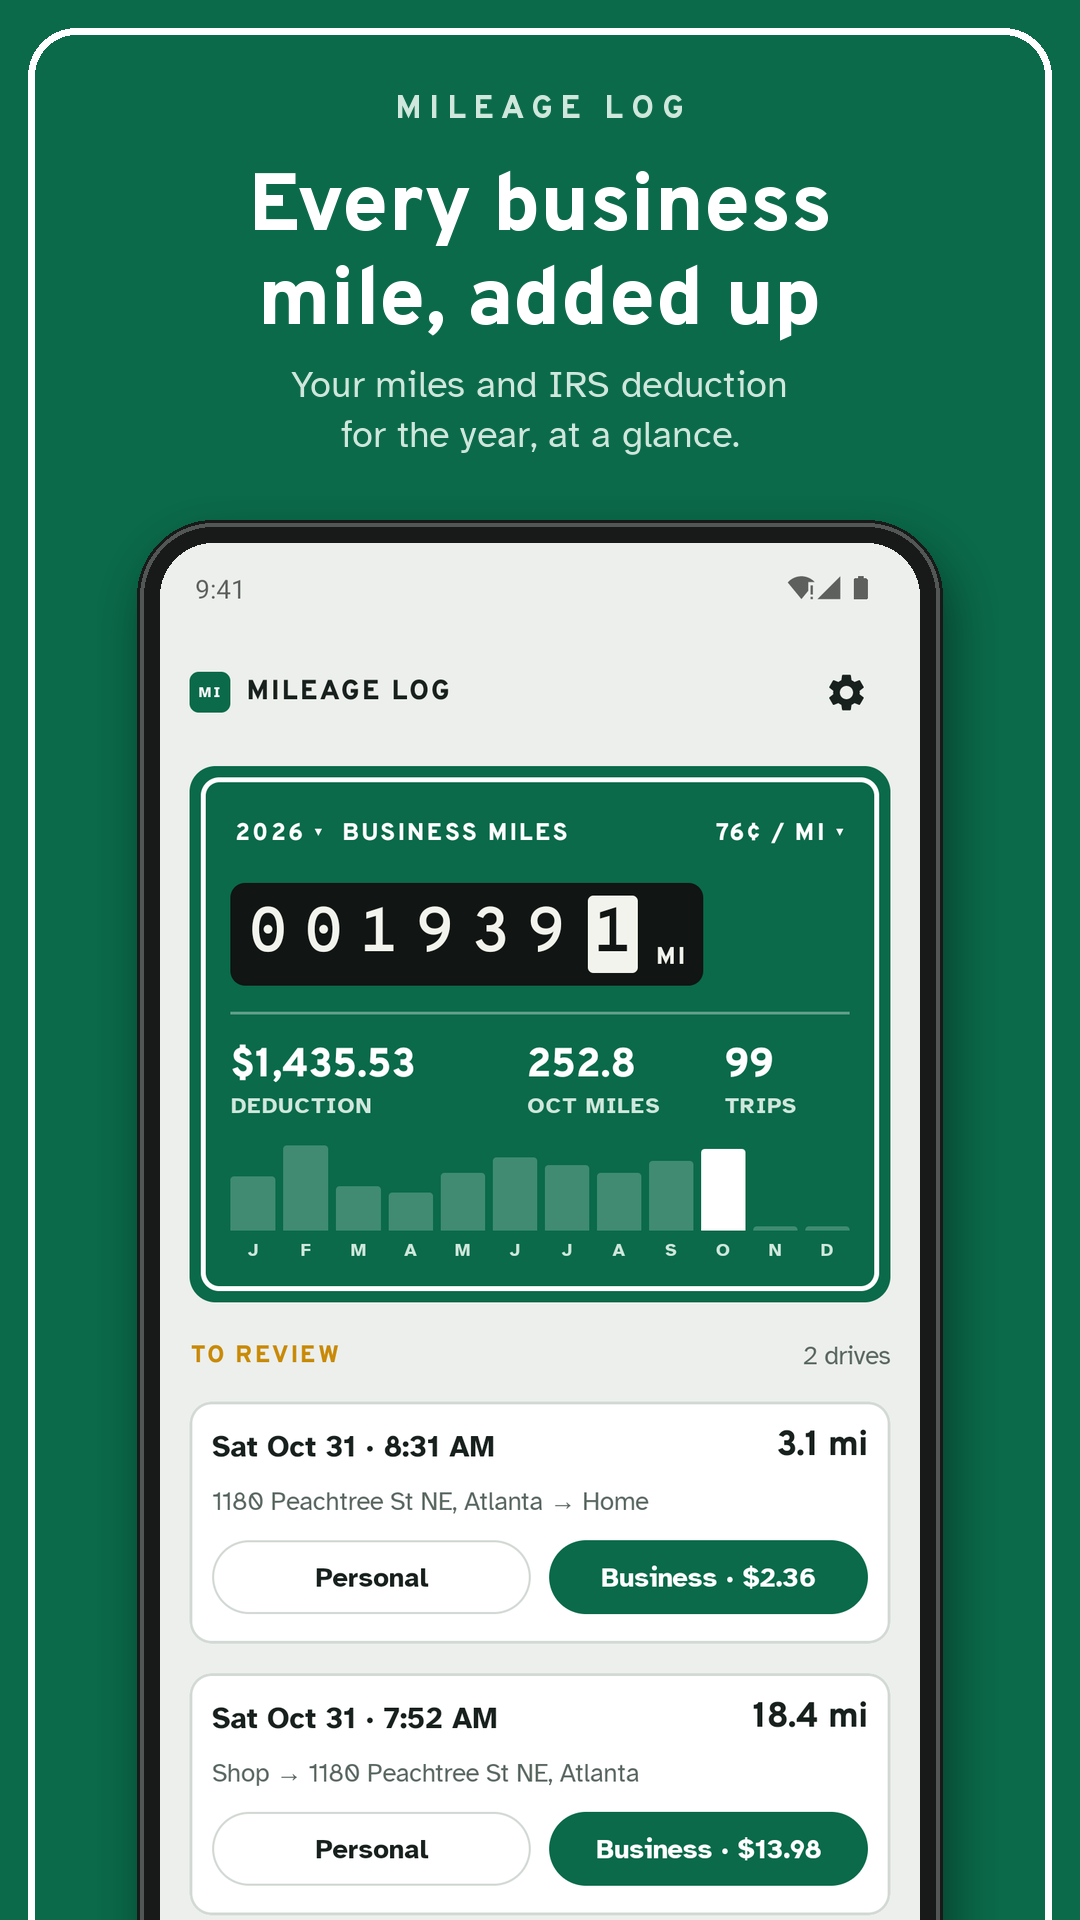
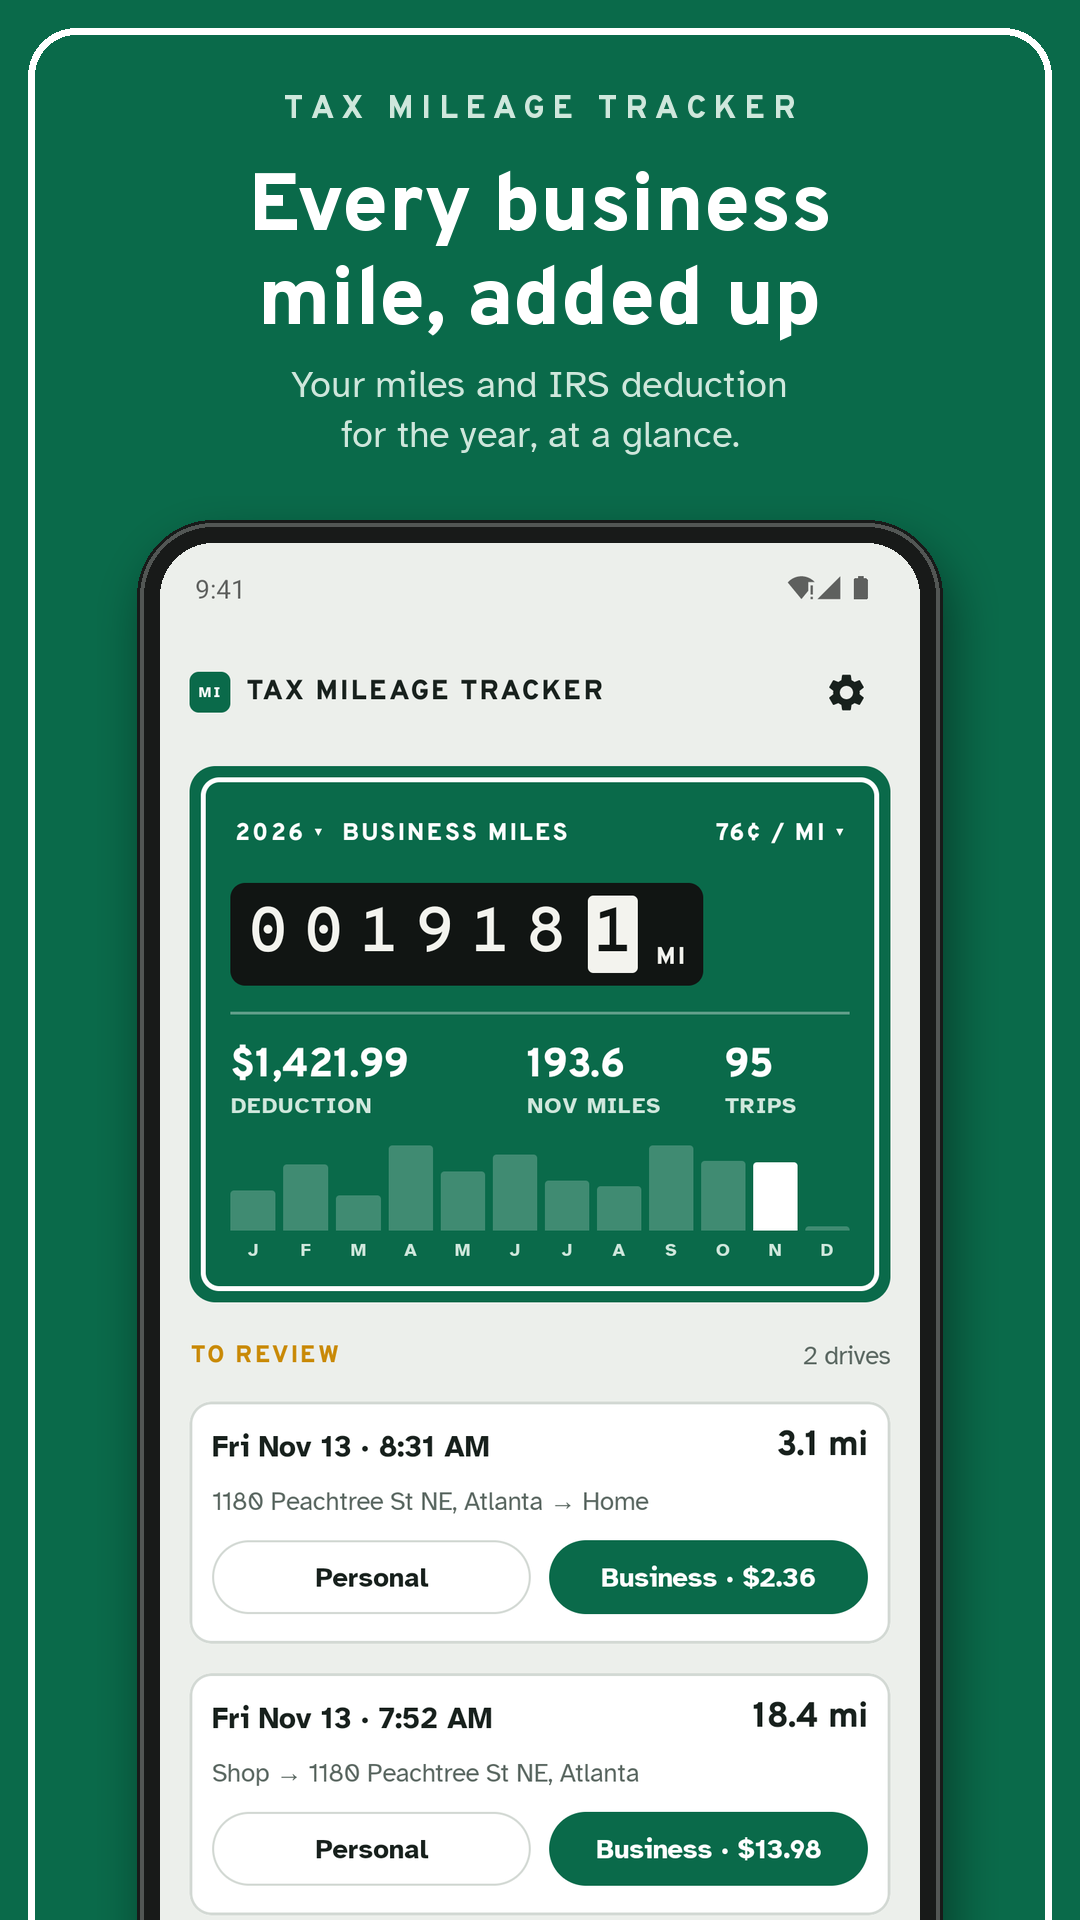
Store screenshots and header art: Tax Mileage Tracker name, tax report slide; 1.1 What's New
Claude-Session: https://claude.ai/code/session_01NV7369TV3DByZaPkANa13k

diff --git a/android/store-listing/compose_play.py b/android/store-listing/compose_play.py
@@ -17,6 +17,7 @@ SLIDES = [   # upload order: the first three tell the core story
     ("1-drive-detected", "Logs drives on its own", "Automatic detection measures each trip with your phone in your pocket.", GREEN),
     ("2-review", "Business or personal? One tap.", "GPS miles and addresses fill in. Pick a purpose and save.", GREEN),
     ("3-home", "Every business mile, added up", "Your miles and IRS deduction for the year, at a glance.", GREEN),
+    ("6-report", "A tax report, ready to hand over", "Totals, Schedule C vehicle miles, parking and tolls, and every trip, as a PDF.", GREEN),
     ("4-settings", "Set it up once", "Turn on detection, save home and work, and you're ready to drive.", GREEN),
     ("5-dark", "Private, and easy on the eyes", "Dark mode, no account, and your trips never leave your phone.", DARK),
 ]
@@ -60,12 +61,12 @@ def drop(img, p, x, y, blur=24, alpha=110):
 def screenshots():
     os.makedirs(os.path.join(OUT, "screenshots"), exist_ok=True)
     W, H = 1080, 1920
-    for name, head, sub, bg in SLIDES:
+    for order, (name, head, sub, bg) in enumerate(SLIDES, 1):
         src = os.path.join(RAW, name + ".png")
         if not os.path.exists(src): print("missing", src); continue
         img = Image.new("RGB", (W, H), bg); d = ImageDraw.Draw(img)
         d.rounded_rectangle([28, 28, W - 29, H + 200], radius=48, outline=WHITE, width=7)
-        d.text((W / 2, 110), "M I L E A G E   L O G", font=sign_font(32), fill=SOFT, anchor="mm")
+        d.text((W / 2, 110), "T A X   M I L E A G E   T R A C K E R", font=sign_font(32), fill=SOFT, anchor="mm")
         hf = sign_font(82); y = 170
         for line in wrap(d, head, hf, W - 170):
             d.text((W / 2, y), line, font=hf, fill=WHITE, anchor="mt"); y += 94
@@ -74,7 +75,7 @@ def screenshots():
             d.text((W / 2, y), line, font=sf, fill=SOFT, anchor="mt"); y += 50
         p = phone(Image.open(src), 760)
         drop(img, p, (W - p.width) // 2, max(y + 50, 520))
-        img.save(os.path.join(OUT, "screenshots", name + ".png"), optimize=True)
+        img.save(os.path.join(OUT, "screenshots", f"{order}-{name.split('-', 1)[1]}.png"), optimize=True)
         print("wrote", name, img.size)
 
 def feature_graphic():
@@ -83,7 +84,7 @@ def feature_graphic():
     img = Image.new("RGB", (W, H), GREEN); d = ImageDraw.Draw(img)
     d.rounded_rectangle([14, 14, W - 15, H - 15], radius=26, outline=WHITE, width=4)
     x = 64
-    d.text((x, 120), "M I L E A G E   L O G", font=sign_font(20), fill=SOFT)
+    d.text((x, 120), "T A X   M I L E A G E   T R A C K E R", font=sign_font(20), fill=SOFT)
     hf = sign_font(52); y = 160
     for line in ["Every business mile,", "logged for you"]:
         d.text((x, y), line, font=hf, fill=WHITE); y += 60

diff --git a/ios/store-listing/compose_store.py b/ios/store-listing/compose_store.py
@@ -24,6 +24,7 @@ SLIDES = [
     ("2-drive-detected", "Logs drives on its own", "Automatic detection measures each trip with your phone in your pocket.", GREEN),
     ("3-review", "Business or personal? One tap.", "GPS miles and addresses fill in. Add the purpose and save.", GREEN),
     ("1-home", "Every business mile, added up", "Your miles and IRS deduction for the year, at a glance.", GREEN),
+    ("6-report", "A tax report, ready to hand over", "Totals, Schedule C vehicle miles, parking and tolls, and every trip, as a PDF.", GREEN),
     ("4-settings", "Midyear rate changes, handled", "Each trip uses the IRS rate for the day you drove: 72.5¢, then 76¢.", GREEN),
     ("5-dark", "Private, and easy on the eyes", "Dark mode, no account, and your trips never leave your phone.", INK_DARK),
 ]
@@ -66,7 +67,7 @@ for order, (name, head, sub, bg) in enumerate(SLIDES, start=1):
     # Highway-sign inset border along the top and sides.
     d.rounded_rectangle([34, 34, W - 35, H + 200], radius=58, outline=(255, 255, 255), width=8)
     eyebrow = ImageFont.truetype(SIGN, 40)
-    d.text((W / 2, 150), "M I L E A G E   L O G", font=eyebrow, fill=SOFT, anchor="mm")
+    d.text((W / 2, 150), "T A X   M I L E A G E   T R A C K E R", font=eyebrow, fill=SOFT, anchor="mm")
     hf = ImageFont.truetype(SIGN, 104); y = 230
     for line in wrap(d, head, hf, W - 200):
         d.text((W / 2, y), line, font=hf, fill=(255, 255, 255), anchor="mt"); y += 118
@@ -84,6 +85,6 @@ for order, (name, head, sub, bg) in enumerate(SLIDES, start=1):
     # The two sizes have the same shape, so the 6.3-inch image is a straight downscale.
     os.makedirs(os.path.join(OUT, "6.9-inch"), exist_ok=True)
     os.makedirs(os.path.join(OUT, "6.3-inch"), exist_ok=True)
-    img.save(os.path.join(OUT, "6.9-inch", f"{order}-mileage-log-{label}.png"), optimize=True)
-    img.resize((1206, 2622), Image.LANCZOS).save(os.path.join(OUT, "6.3-inch", f"{order}-mileage-log-{label}.png"), optimize=True)
+    img.save(os.path.join(OUT, "6.9-inch", f"{order}-tax-mileage-tracker-{label}.png"), optimize=True)
+    img.resize((1206, 2622), Image.LANCZOS).save(os.path.join(OUT, "6.3-inch", f"{order}-tax-mileage-tracker-{label}.png"), optimize=True)
     print("wrote", name)

diff --git a/ios/store-listing/compose_header.py b/ios/store-listing/compose_header.py
@@ -83,13 +83,13 @@ def make(W, H, name):
             f = ImageFont.truetype(path, round(size))
             if max(d.textlength(l, font=f) for l in lines) <= col_w: return f
             size *= 0.96
-    eb = fit(["M I L E A G E   L O G"], SIGN, 30 * u)
+    eb = fit(["T A X   M I L E A G E   T R A C K E R"], SIGN, 30 * u)
     hf = fit(HEAD, SIGN, 104 * u)
     sf = fit(SUB, BODY, 40 * u)
     hs, ss = hf.size, sf.size
     block = eb.size * 1.2 + 30 * u + len(HEAD) * hs * 1.08 + 30 * u + len(SUB) * ss * 1.35
     y = y0 + (bh - block) / 2
-    d.text((x0, y), "M I L E A G E   L O G", font=eb, fill=SOFT); y += eb.size * 1.2 + 30 * u
+    d.text((x0, y), "T A X   M I L E A G E   T R A C K E R", font=eb, fill=SOFT); y += eb.size * 1.2 + 30 * u
     for l in HEAD: d.text((x0, y), l, font=hf, fill=WHITE); y += hs * 1.08
     y += 30 * u
     for l in SUB: d.text((x0, y), l, font=sf, fill=SOFT); y += ss * 1.35
@@ -99,8 +99,8 @@ def make(W, H, name):
     return img, (cx0, cy0, cx1, cy1)
 
 out = {}
-out["5244"] = make(5244, 2950, "mileage-log-header-5244x2950.png")
-out["3840"] = make(3840, 1646, "mileage-log-header-3840x1646.png")
+out["5244"] = make(5244, 2950, "tax-mileage-tracker-header-5244x2950.png")
+out["3840"] = make(3840, 1646, "tax-mileage-tracker-header-3840x1646.png")
 if len(sys.argv) > 3:   # optional: write what the search card would show
     for k, (img, box) in out.items():
         img.crop(tuple(round(v) for v in box)).resize((900, 600), Image.LANCZOS).save(os.path.join(sys.argv[3], f"search-crop-{k}.png"))

diff --git a/ios/store-listing/app-store.md b/ios/store-listing/app-store.md
@@ -4,7 +4,7 @@ Everything App Store Connect asks for, ready to paste. Character limits are
 Apple's; every field here fits.
 
 Screenshots are in [`screenshots/`](screenshots/), numbered in upload order
-(drive detected, review, home, rates, dark mode):
+(drive detected, review, home, tax report, rates, dark mode):
 
 | App Store Connect slot | Folder | Size | Needed? |
 | --- | --- | --- | --- |
@@ -109,7 +109,17 @@ Apple rejects trademarked keywords.
 
 ### What's New (later versions only)
 
-Leave blank for 1.0.
+Version 1.1:
+
+```
+New PDF tax report: your yearly totals, deduction, parking and tolls, the vehicle miles Schedule C asks for, a monthly table, and every trip, ready for your tax preparer.
+Add parking and tolls to any trip.
+Track more than one vehicle with yearly odometer readings.
+A quick walkthrough for new users, plus Help and answers to common questions in Settings.
+Choose light, dark, or match your phone.
+Send feedback or rate the app from Settings.
+New IRS rates from app updates now apply even if you changed your rates.
+```
 
 ---
 
@@ -141,7 +151,7 @@ To try it without driving: tap "+ Log trip" to enter a trip by hand, or tap "Sta
 
 ## Before you submit
 
-- [ ] Screenshots uploaded (5, in order)
+- [ ] Screenshots uploaded (6, in order)
 - [ ] Privacy Policy URL set on the App Information page
 - [ ] App Privacy answered: Data Not Collected
 - [ ] Build selected under the version (the TestFlight build)
